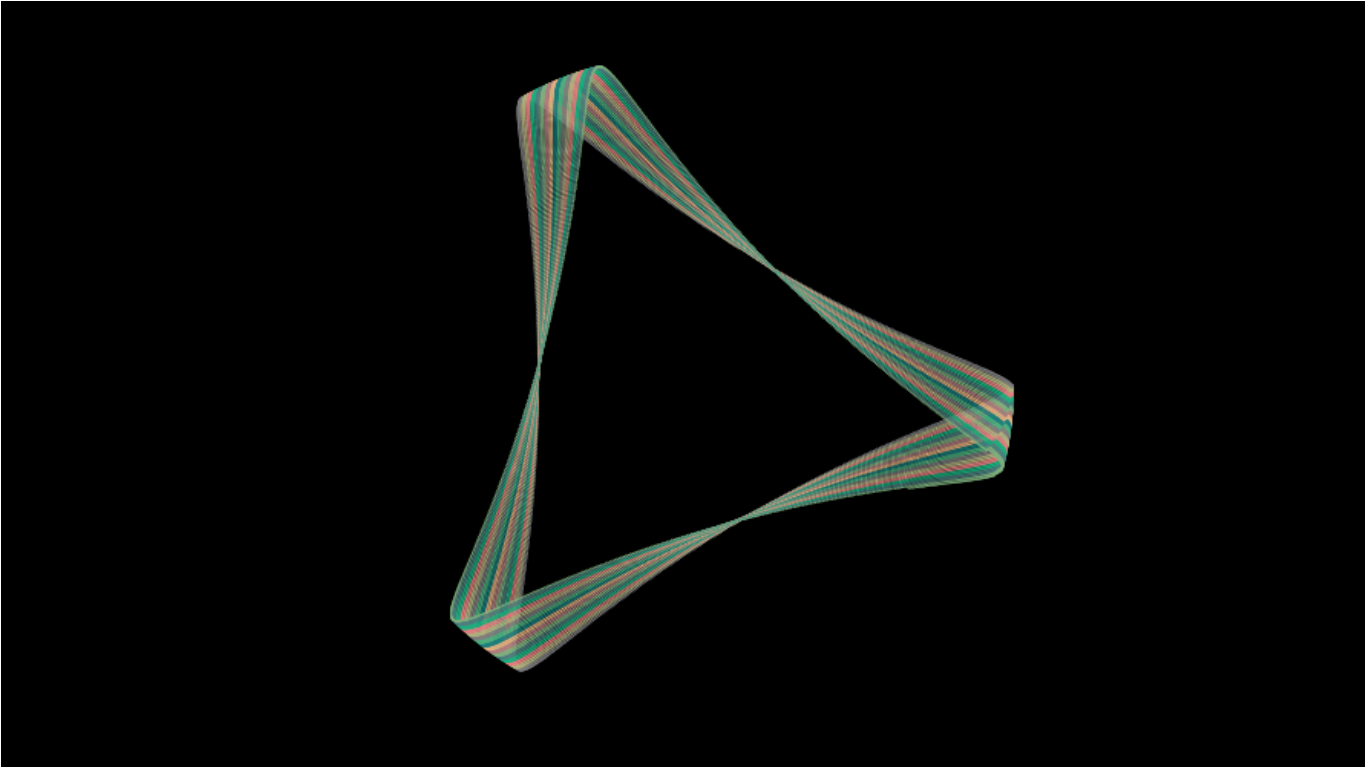
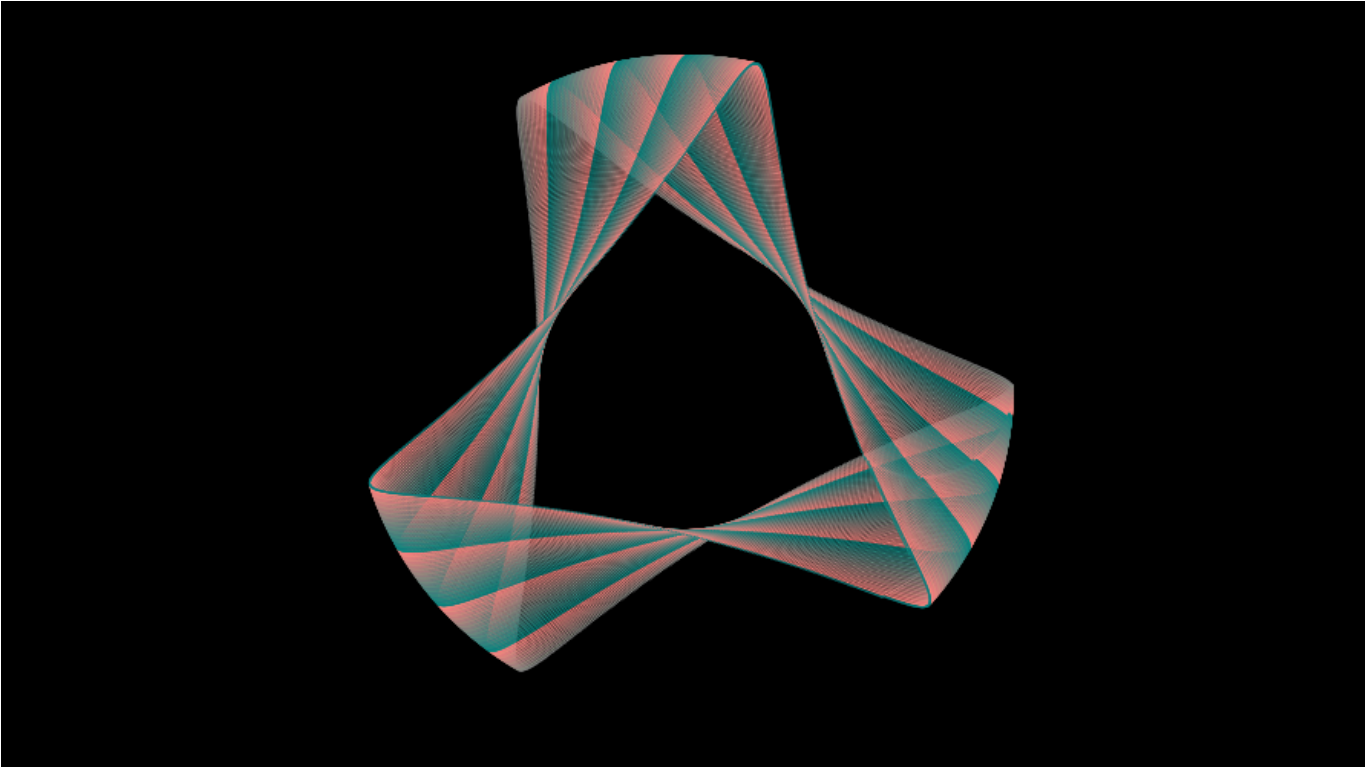
adding input for roll factor

Changed region(s): [[0.246, 0.0625, 0.7687, 0.875]]

diff --git a/DesignRuler/DesignRuler.js b/DesignRuler/DesignRuler.js
@@ -11,11 +11,13 @@ var rollangle = 0;
 var pause = false;
 
 var iradius = parseInt(document.getElementById("InnerRadius").value);
-var rollfactor = parseInt(document.getElementById("RollFactor").value)/1000;
+//var rollfactor = parseInt(document.getElementById("RollFactor").value)/1000;
 var pointoffset = parseInt(document.getElementById("PointOffset").value);
+var rollfactor = parseFloat(document.getElementById("RollFactor").value);
 
 var RollFactorlabel = document.getElementById("RollFactorLabel");
 RollFactorlabel.innerHTML = "Roll Factor: " + rollfactor.toFixed(3);
+
 
 ctx.translate(oradius, oradius);
 radius = oradius * 0.90
@@ -160,7 +162,8 @@ function SetPointOffset()
 
 function SetRollFactor()
 {
-	rollfactor = parseInt(document.getElementById("RollFactor").value)/1000;
+	//rollfactor = parseInt(document.getElementById("RollFactor").value)/1000;
+	rollfactor = parseFloat(document.getElementById("RollFactor").value);
 	RollFactorlabel.innerHTML = "Roll Factor: " + rollfactor.toFixed(3);
 	Reset();
 }

diff --git a/DesignRuler/DesignRuler.html b/DesignRuler/DesignRuler.html
@@ -61,8 +61,9 @@
 						<input type="range" id="PointOffset" min= "0" max = "40" value = "10" oninput="SetPointOffset();" onchange="SetPointOffset();">
 						<span class="checkmark"></span>
 				</label>
-				<label class="container">Roll Factor
-						<input type="range" id="RollFactor" min= "1" max = "2000" value = "1995" oninput="SetRollFactor();" onchange="SetRollFactor();">
+				<label class="container">Roll Factor(0.001 to 10.000)
+						<!-- <input type="range" id="RollFactor" min= "1" max = "10000" value = "9950" oninput="SetRollFactor();" onchange="SetRollFactor();"> -->
+						<input type="number" id="RollFactor" min="0.001" max="10.000" value = "0.501" oninput="SetRollFactor();">
 						<span class="checkmark"></span>
 				</label>
 				
